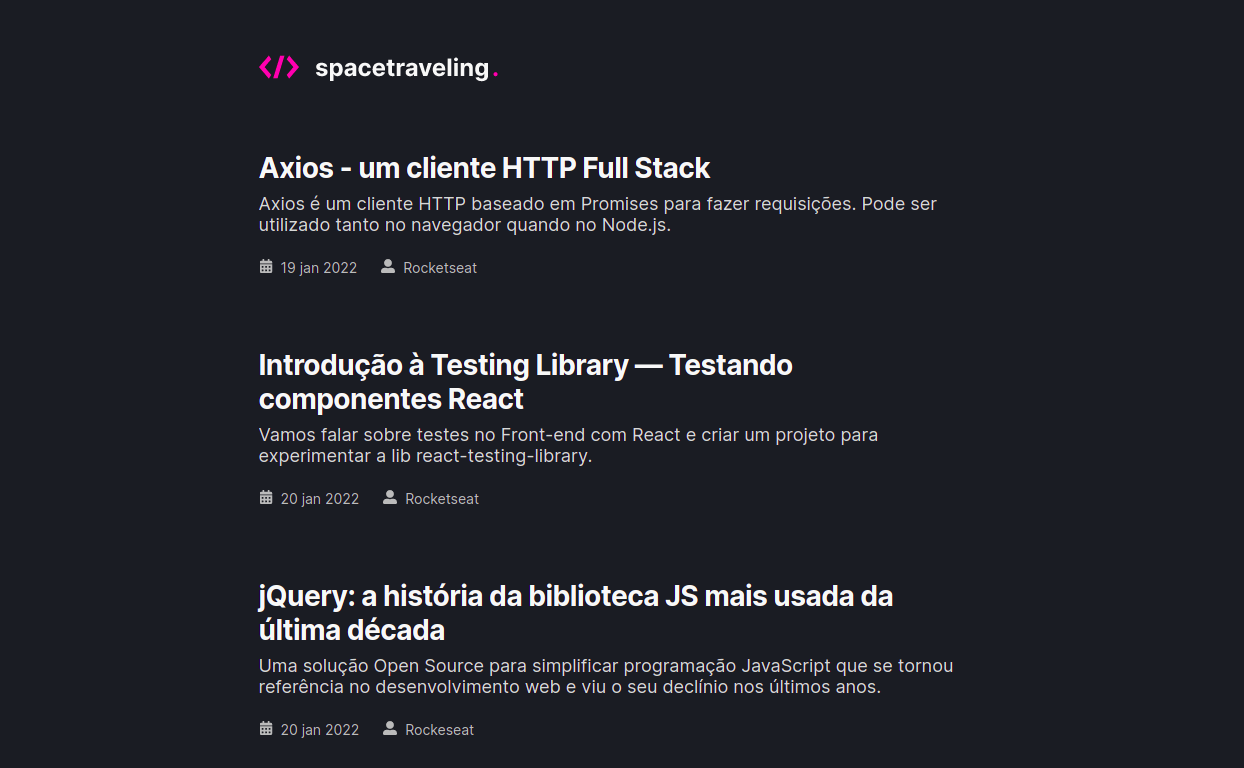
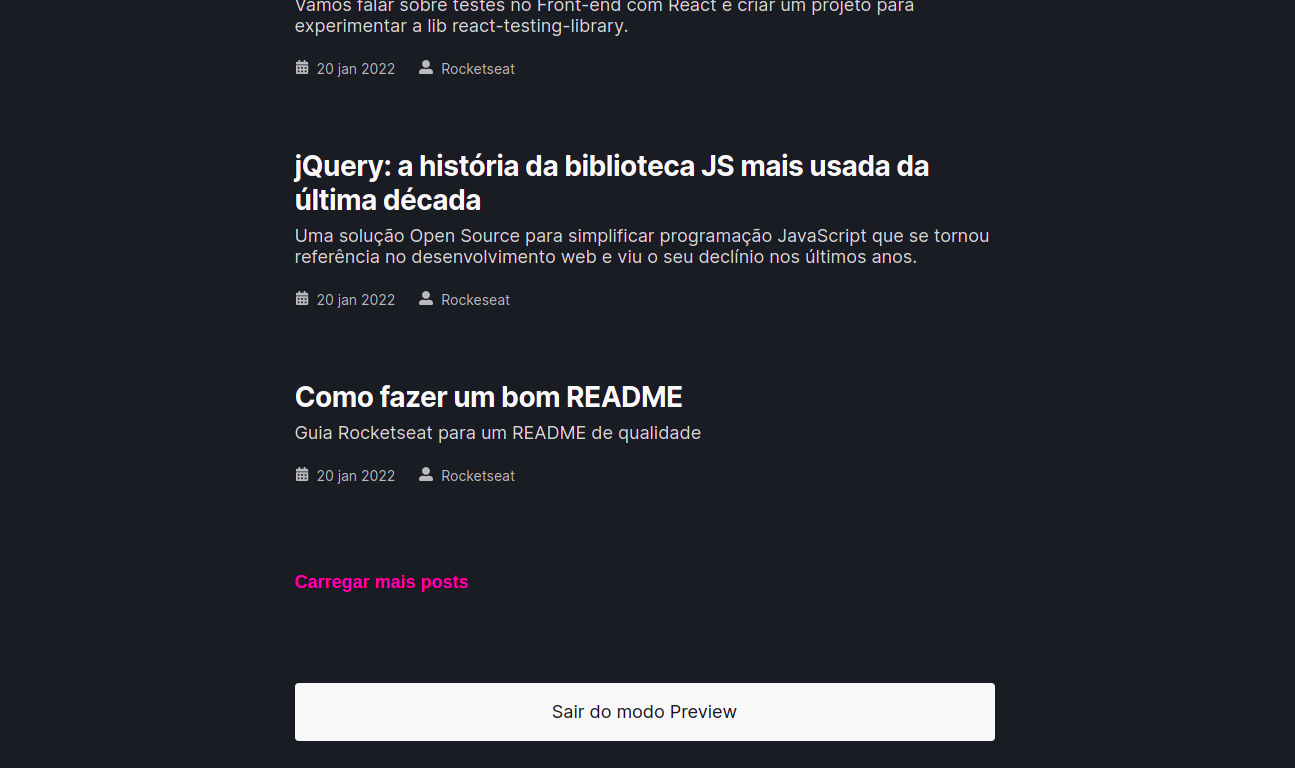
update readme

diff --git a/README.md b/README.md
@@ -1,19 +1,19 @@
-<h1 align="center">Spacetraveling</h1>
+<h1 align="center">Spacetraveling v.2</h1>
 
 <p align="center">
-  <img alt="GitHub language count" src="https://img.shields.io/github/languages/count/jtiagosantos/spacetraveling?color=%green">
-  <img alt="Repository size" src="https://img.shields.io/github/repo-size/jtiagosantos/spacetraveling?color=blue">
-  <a href="https://github.com/jtiagosantos/spacetraveling/commits/master">
-    <img alt="GitHub last commit" src="https://img.shields.io/github/last-commit/jtiagosantos/spacetraveling?color=purple">
+  <img alt="GitHub language count" src="https://img.shields.io/github/languages/count/jtiagosantos/spacetraveling-v.2?color=%green">
+  <img alt="Repository size" src="https://img.shields.io/github/repo-size/jtiagosantos/spacetraveling-v.2?color=blue">
+  <a href="https://github.com/jtiagosantos/spacetraveling-v.2/commits/master">
+    <img alt="GitHub last commit" src="https://img.shields.io/github/last-commit/jtiagosantos/spacetraveling-v.2?color=purple">
   </a>
   <img alt="License" src="https://img.shields.io/badge/license-MIT-brightgreen?color=orange">
-   <a href="https://github.com/jtiagosantos/spacetraveling/stargazers">
-    <img alt="Stargazers" src="https://img.shields.io/github/stars/jtiagosantos/spacetraveling?style=social">
+   <a href="https://github.com/jtiagosantos/spacetraveling-v.2/stargazers">
+    <img alt="Stargazers" src="https://img.shields.io/github/stars/jtiagosantos/spacetraveling-v.2?style=social">
   </a>
 </p>
 
 <h4 align="center">
-	🚧  spacetraveling 🤖 Completed 🚀 🚧
+	🚧  spacetraveling v.2 🤖 Completed 🚀 🚧
 </h4>
 
 <p align="center">
@@ -41,6 +41,9 @@
 
 - [x] Read posts
 - [x] Load more posts
+- [x] Preview mode
+- [x] Pagination of posts
+- [x] Can add comments
 
 <hr>
 
@@ -92,12 +95,6 @@ The following tools were used in the construction of project:
 You can view the project layout through the link below:
 
 - **[Layout Web](https://www.figma.com/file/kd3TTvyo87gkxmlYfbMN3e/Desafios-M%C3%B3dulo-3-ReactJS-(Copy)?node-id=0%3A1)**
-
-<hr>
-
-## :cloud: Deploy
-
-- **[Spacetraveling](https://spacetraveling-gilt.vercel.app/)**
 
 <hr>
 
